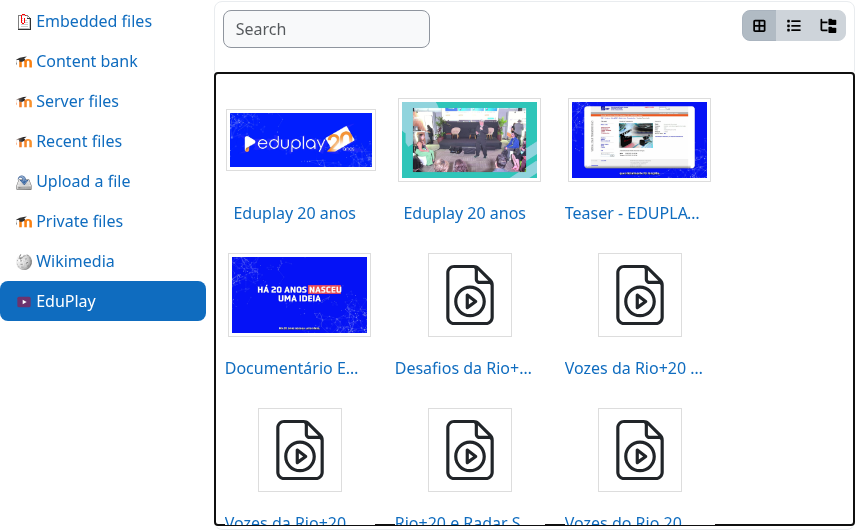
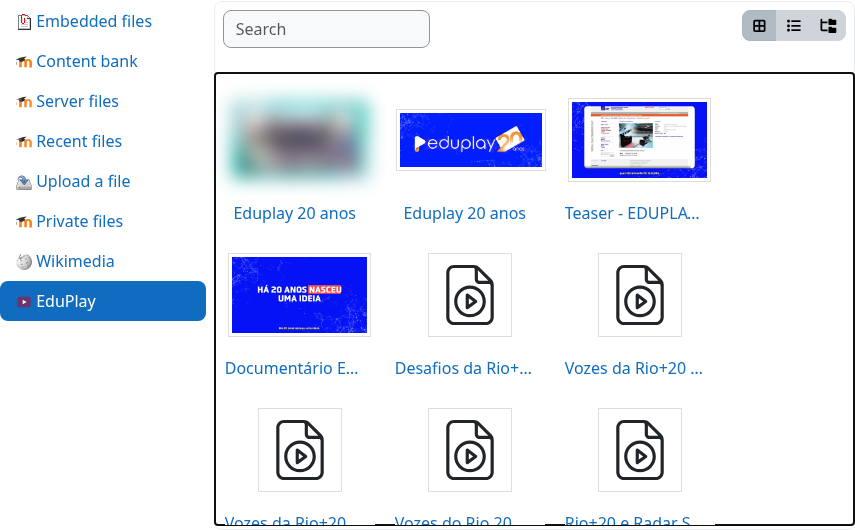
docs(repository_eduplay): [UPD] Vídeo narrado por idioma e miniatura com pessoas borrada (#17)
Motivo: os vídeos de demonstração agora têm narração em pt-BR e inglês; a captura da busca exibia uma miniatura com pessoas.
Impacto: a página inicial de cada idioma aponta para o vídeo narrado correspondente no portal.
Arquivos/Mudanças: docs/en/index.rst, docs/pt_BR/index.rst, docs/*/img/search.png

Changed region(s): [[0.2433, 0.1509, 0.6386, 0.3623], [0.669, 0.966, 0.8211, 0.9962], [0.4561, 0.966, 0.6082, 0.9962]]

diff --git a/docs/pt_BR/index.rst b/docs/pt_BR/index.rst
@@ -22,8 +22,8 @@ Veja em 30 segundos
 .. raw:: html
 
    <video controls preload="none" style="width:100%;max-width:960px" aria-label="Veja em 30 segundos">
-     <source src="https://eduplay-moodle-suite.github.io/media/repository.mp4" type="video/mp4">
-     <a href="https://eduplay-moodle-suite.github.io/media/repository.mp4">MP4</a>
+     <source src="https://eduplay-moodle-suite.github.io/media/repository.pt-br.mp4" type="video/mp4">
+     <a href="https://eduplay-moodle-suite.github.io/media/repository.pt-br.mp4">MP4</a>
    </video>
 
 *Abrir o seletor de arquivos pelo editor, pesquisar pelo título e escolher um vídeo (interface do Moodle em inglês).*

diff --git a/docs/en/index.rst b/docs/en/index.rst
@@ -22,8 +22,8 @@ See it in 30 seconds
 .. raw:: html
 
    <video controls preload="none" style="width:100%;max-width:960px" aria-label="See it in 30 seconds">
-     <source src="https://eduplay-moodle-suite.github.io/media/repository.mp4" type="video/mp4">
-     <a href="https://eduplay-moodle-suite.github.io/media/repository.mp4">MP4</a>
+     <source src="https://eduplay-moodle-suite.github.io/media/repository.en.mp4" type="video/mp4">
+     <a href="https://eduplay-moodle-suite.github.io/media/repository.en.mp4">MP4</a>
    </video>
 
 *Open the file picker from the editor, search by title, pick a video (Moodle interface in English).*
